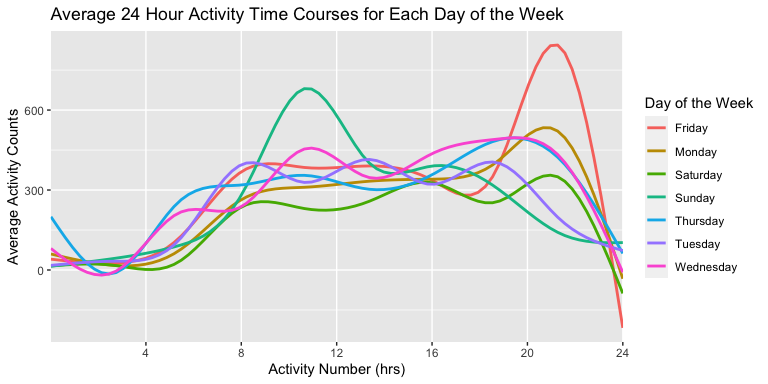
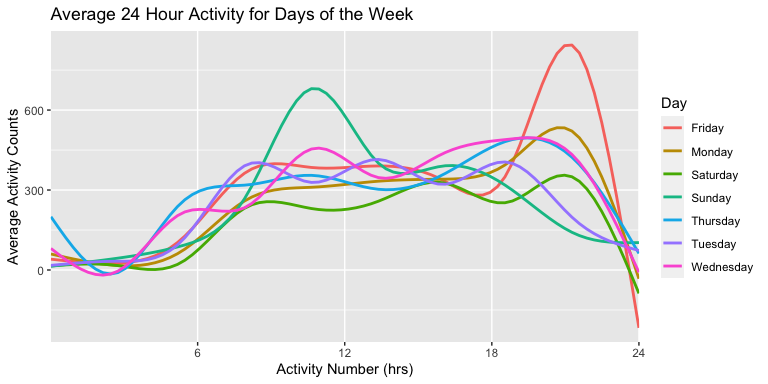
Minor edits to final submission

diff --git a/p8105_hw3_tb2910.md b/p8105_hw3_tb2910.md
@@ -381,13 +381,13 @@ accel_df %>%
   summarize(avg_value = mean(activity_counts)) %>% 
   ggplot(aes(x = activity_number, y = avg_value, color = day)) +
   geom_smooth(se = FALSE) +
-  scale_x_discrete(limit = c(240,480,720,960,1200,1440), 
-                   labels = c("4", "8", "12", "16", "20", "24")) +
+  scale_x_discrete(limit = c(360,720,1080,1440), 
+                   labels = c( "6", "12", "18", "24")) +
   labs(
-    title = "Average 24 Hour Activity Time Courses for Each Day of the Week",
+    title = "Average 24 Hour Activity for Days of the Week",
     x = "Activity Number (hrs)",
     y = "Average Activity Counts",
-    color = "Day of the Week"
+    color = "Day"
   )
 ```
 
